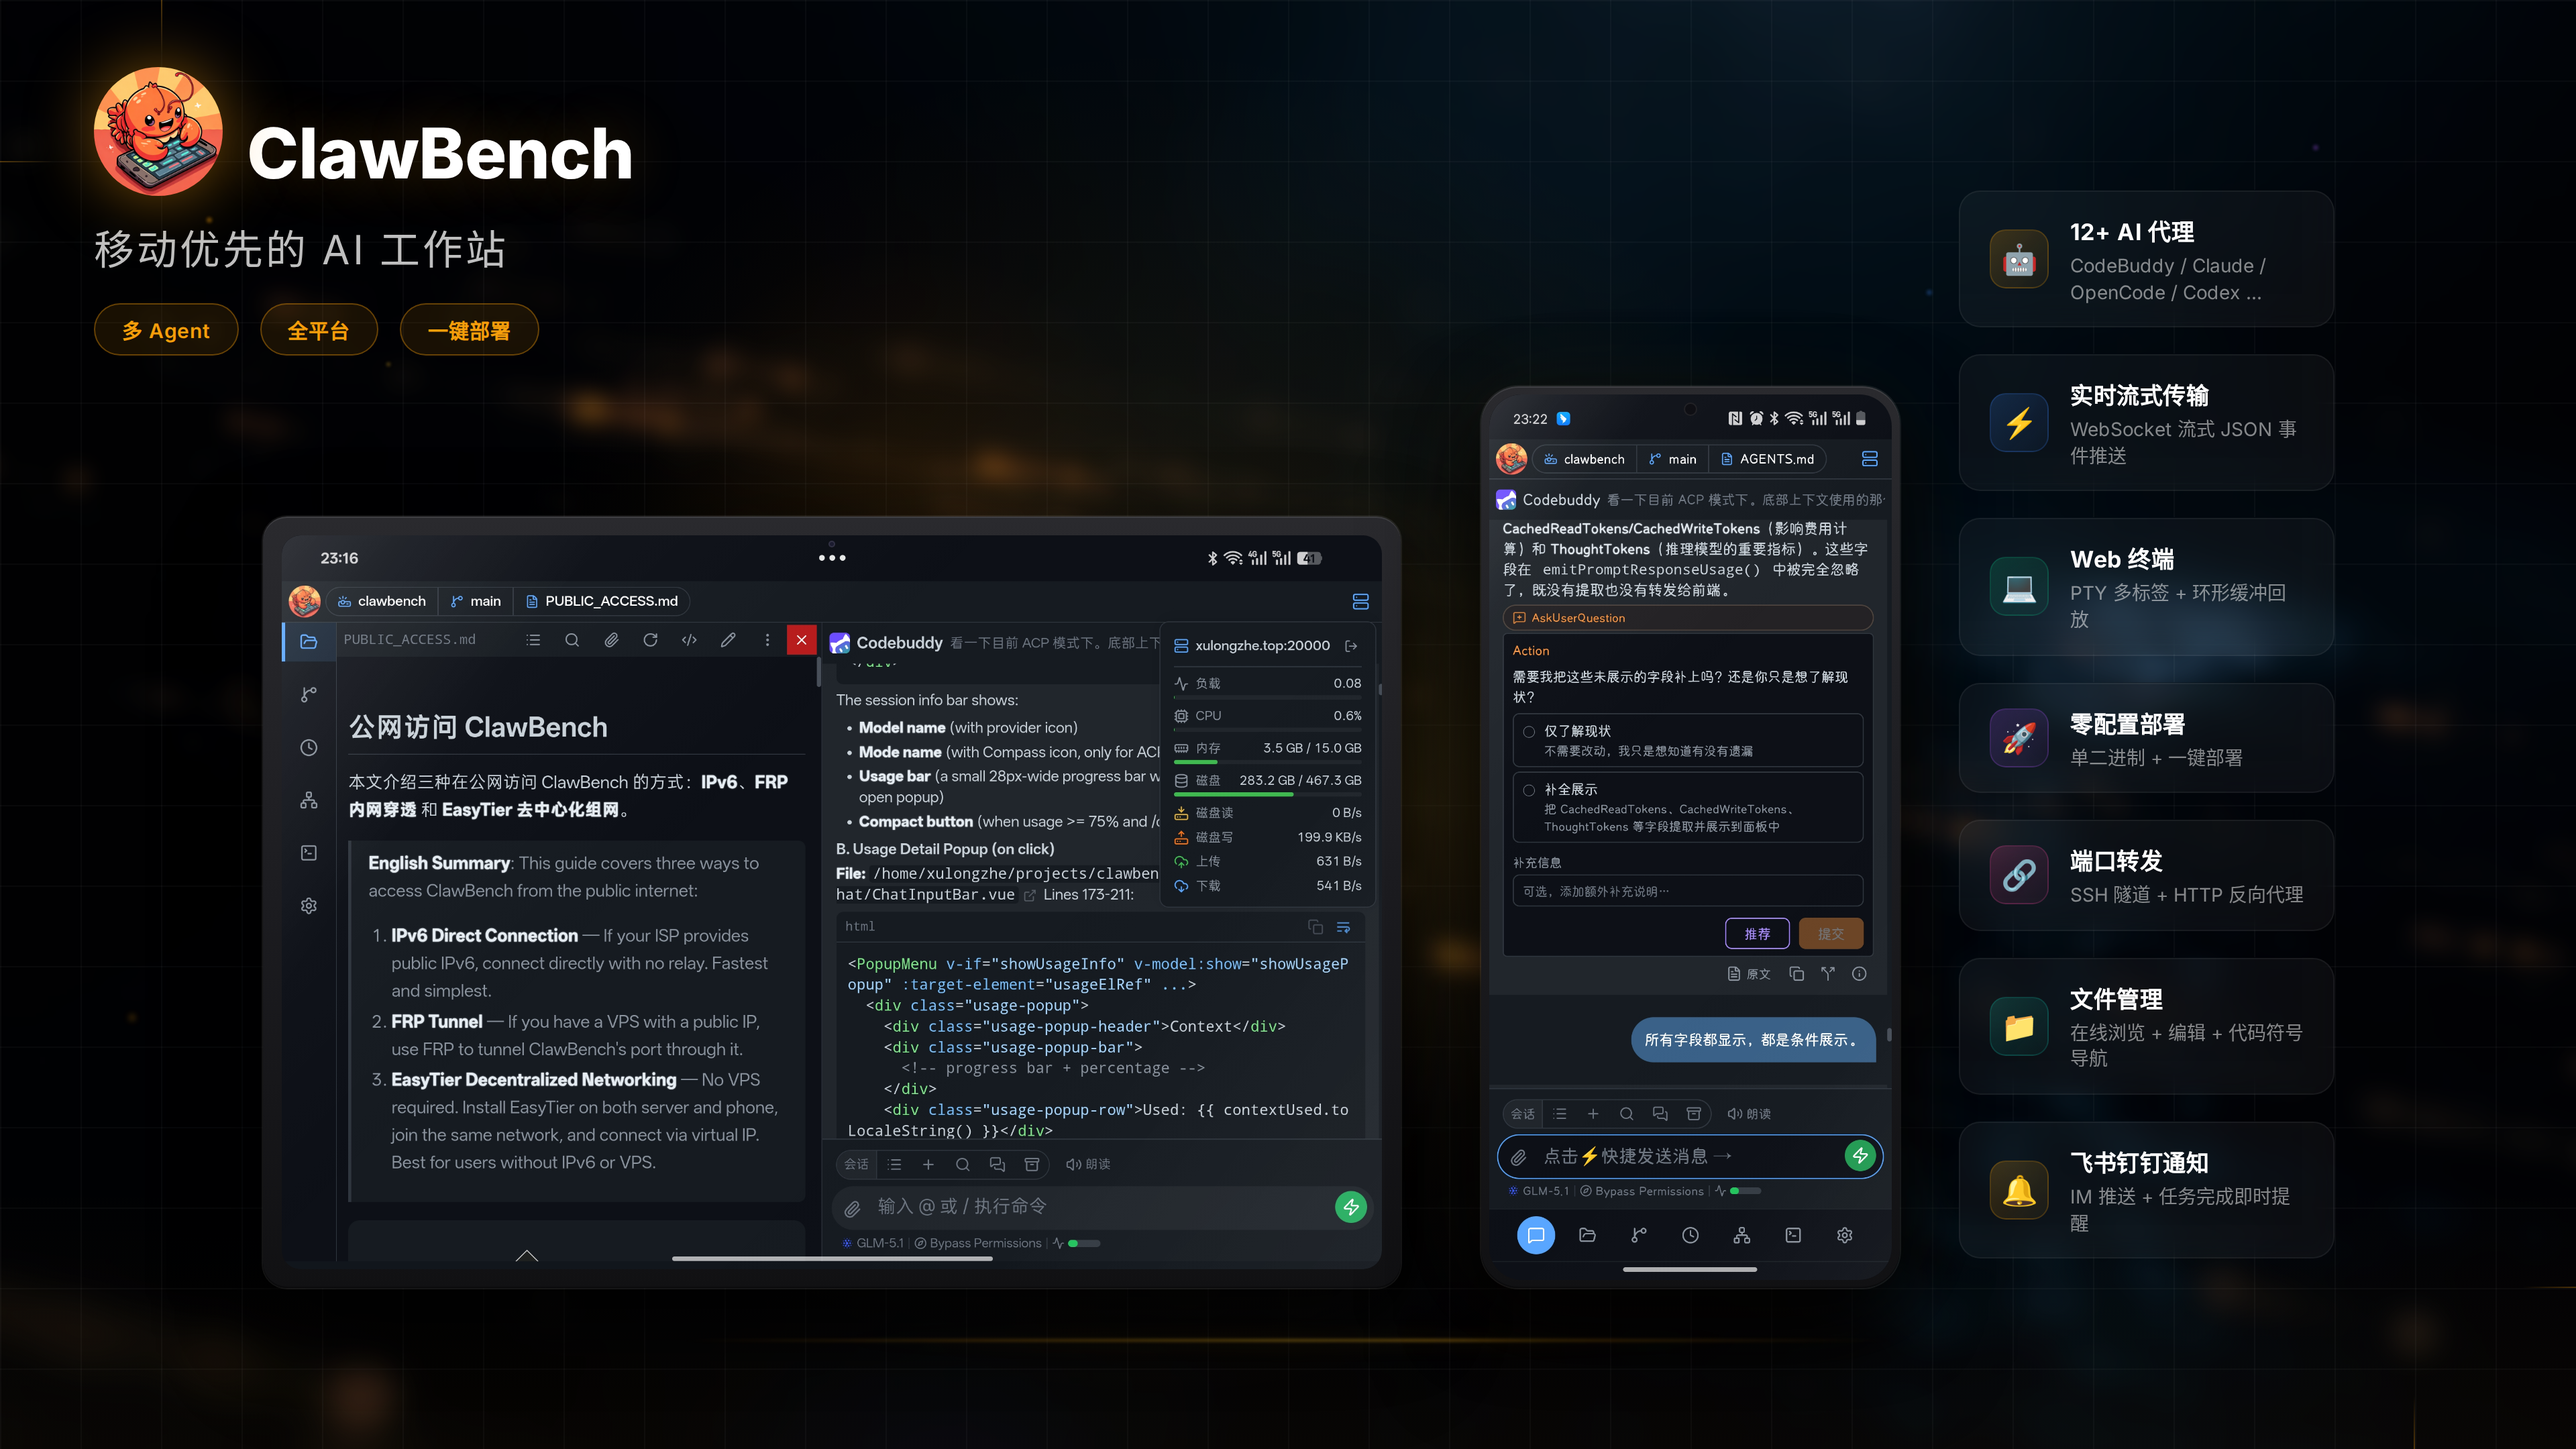
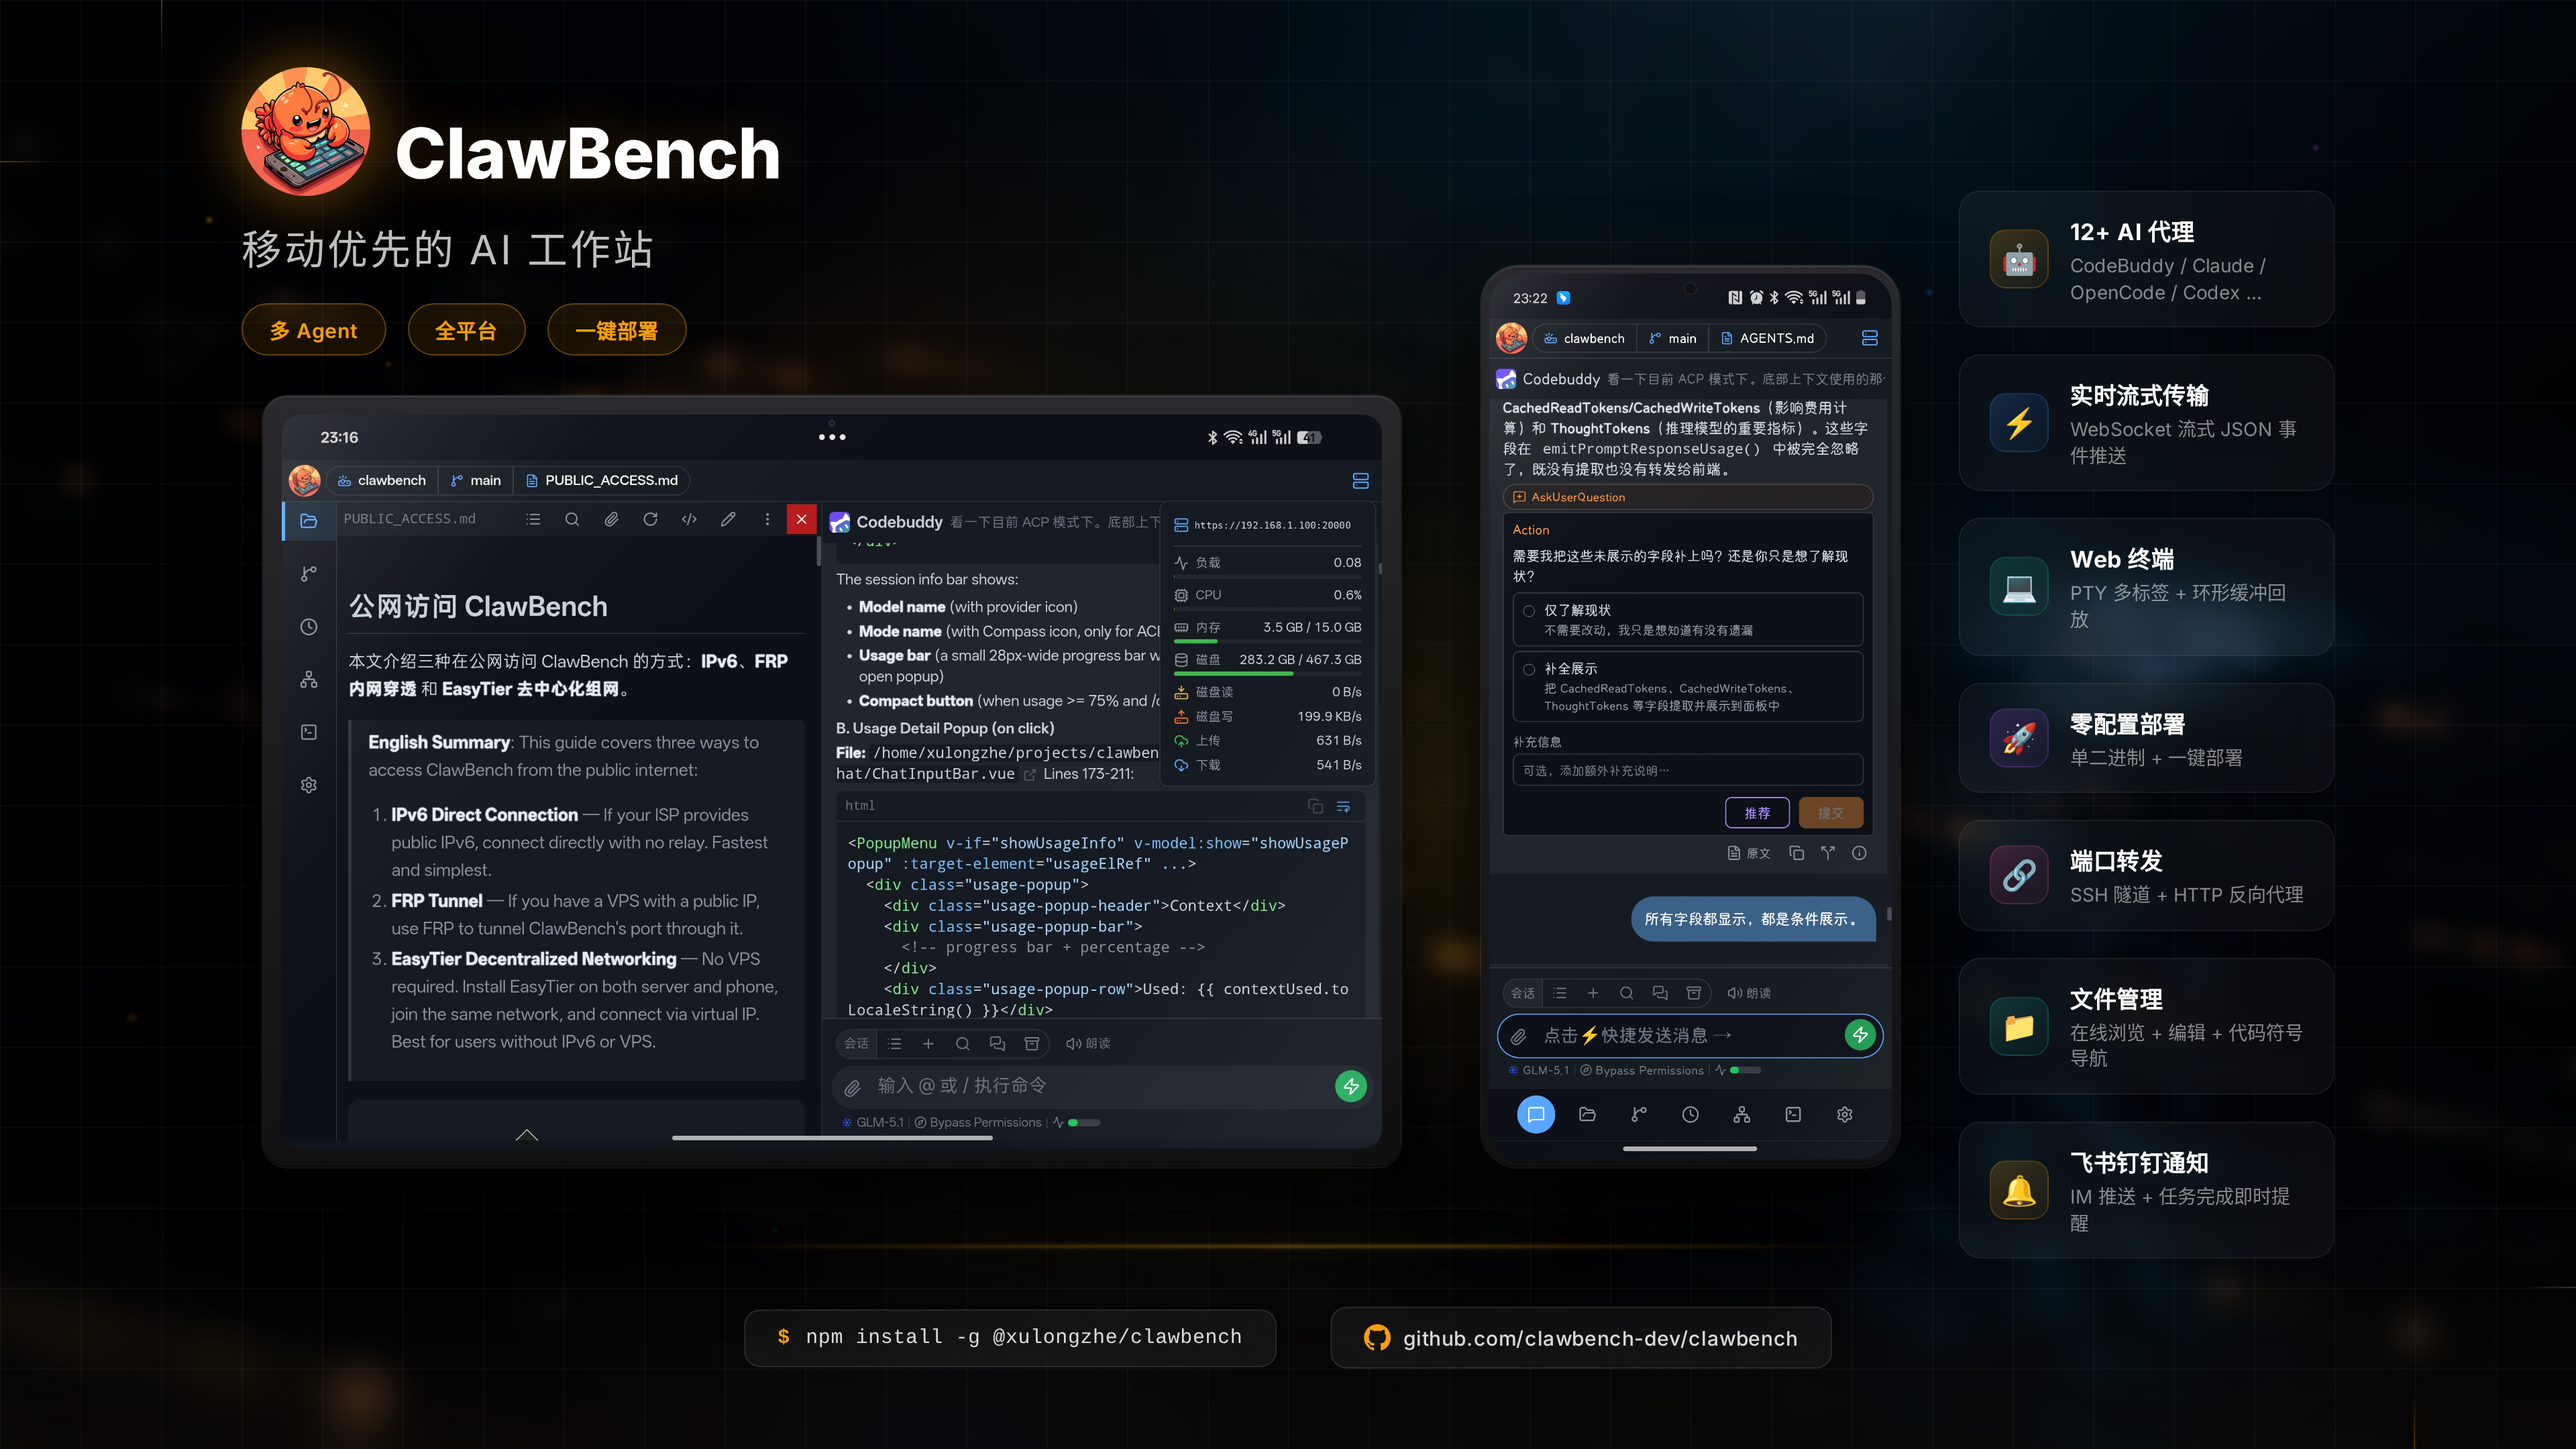
feat: polish product hero image
- Add install command + GitHub link footer (github.com/clawbench-dev/clawbench)
- Vertically center devices, move brand inward to match card margin
- Replace tablet screenshot domain with example (https://192.168.1.100:20000)

Changed region(s): [[0.0312, 0.1861, 0.75, 0.9306], [0.0312, 0.031, 0.3125, 0.1861], [0.5, 0.7444, 0.5312, 0.7755]]

diff --git a/docs/screenshots/product_hero.html b/docs/screenshots/product_hero.html
@@ -69,7 +69,7 @@
   .brand {
     position: absolute;
     top: 50px;
-    left: 70px;
+    left: 180px;
     z-index: 10;
     display: flex;
     flex-direction: column;
@@ -126,7 +126,7 @@
   /* Devices container - side by side */
   .devices {
     position: absolute;
-    bottom: 120px;
+    bottom: 210px;
     left: 42%;
     transform: translateX(-50%);
     z-index: 5;
@@ -291,7 +291,7 @@
   /* Ambient light strip */
   .ambient-strip {
     position: absolute;
-    bottom: 80px;
+    bottom: 150px;
     left: 50%;
     transform: translateX(-50%);
     width: 900px;
@@ -311,6 +311,76 @@
     background: inherit;
     filter: blur(8px);
     opacity: 0.6;
+  }
+
+  /* Bottom footer: install command + GitHub link */
+  .footer {
+    position: absolute;
+    bottom: 60px;
+    left: 50%;
+    transform: translateX(-50%);
+    z-index: 10;
+    display: flex;
+    align-items: center;
+    gap: 40px;
+  }
+
+  .install-box {
+    display: flex;
+    align-items: center;
+    gap: 12px;
+    padding: 12px 24px;
+    border-radius: 12px;
+    background: rgba(255,255,255,0.05);
+    border: 1px solid rgba(255,255,255,0.1);
+    backdrop-filter: blur(10px);
+  }
+
+  .install-prompt {
+    font-size: 15px;
+    font-weight: 600;
+    color: #f59e0b;
+    font-family: 'Courier New', monospace;
+  }
+
+  .install-cmd {
+    font-size: 15px;
+    font-weight: 500;
+    color: rgba(255,255,255,0.85);
+    font-family: 'Courier New', monospace;
+    letter-spacing: 0.3px;
+  }
+
+  .github-link {
+    display: flex;
+    align-items: center;
+    gap: 10px;
+    padding: 12px 24px;
+    border-radius: 12px;
+    background: rgba(255,255,255,0.05);
+    border: 1px solid rgba(255,255,255,0.1);
+    backdrop-filter: blur(10px);
+    color: rgba(255,255,255,0.85);
+    text-decoration: none;
+    transition: all 0.3s;
+  }
+
+  .github-link:hover {
+    background: rgba(255,255,255,0.09);
+    border-color: rgba(245,158,11,0.4);
+  }
+
+  .github-icon {
+    width: 20px;
+    height: 20px;
+    color: #f59e0b;
+    flex-shrink: 0;
+  }
+
+  .github-text {
+    font-size: 15px;
+    font-weight: 500;
+    letter-spacing: 0.3px;
   }
 
   /* Right side feature cards */
@@ -571,5 +641,19 @@
 
   <!-- Ambient light strip -->
   <div class="ambient-strip"></div>
+
+  <!-- Bottom footer: install command + GitHub -->
+  <div class="footer">
+    <div class="install-box">
+      <span class="install-prompt">$</span>
+      <span class="install-cmd">npm install -g @xulongzhe/clawbench</span>
+    </div>
+    <a class="github-link" href="https://github.com/clawbench-dev/clawbench">
+      <svg class="github-icon" viewBox="0 0 16 16" fill="currentColor" aria-hidden="true">
+        <path d="M8 0C3.58 0 0 3.58 0 8c0 3.54 2.29 6.53 5.47 7.59.4.07.55-.17.55-.38 0-.19-.01-.82-.01-1.49-2.01.37-2.53-.49-2.69-.94-.09-.23-.48-.94-.82-1.13-.28-.15-.68-.52-.01-.53.63-.01 1.08.58 1.23.82.72 1.21 1.87.87 2.33.66.07-.52.28-.87.51-1.07-1.78-.2-3.64-.89-3.64-3.95 0-.87.31-1.59.82-2.15-.08-.2-.36-1.02.08-2.12 0 0 .67-.21 2.2.82.64-.18 1.32-.27 2-.27.68 0 1.36.09 2 .27 1.53-1.04 2.2-.82 2.2-.82.44 1.1.16 1.92.08 2.12.51.56.82 1.27.82 2.15 0 3.07-1.87 3.75-3.65 3.95.29.25.54.73.54 1.48 0 1.07-.01 1.93-.01 2.2 0 .21.15.46.55.38A8.013 8.013 0 0016 8c0-4.42-3.58-8-8-8z"/>
+      </svg>
+      <span class="github-text">github.com/clawbench-dev/clawbench</span>
+    </a>
+  </div>
 </body>
 </html>
